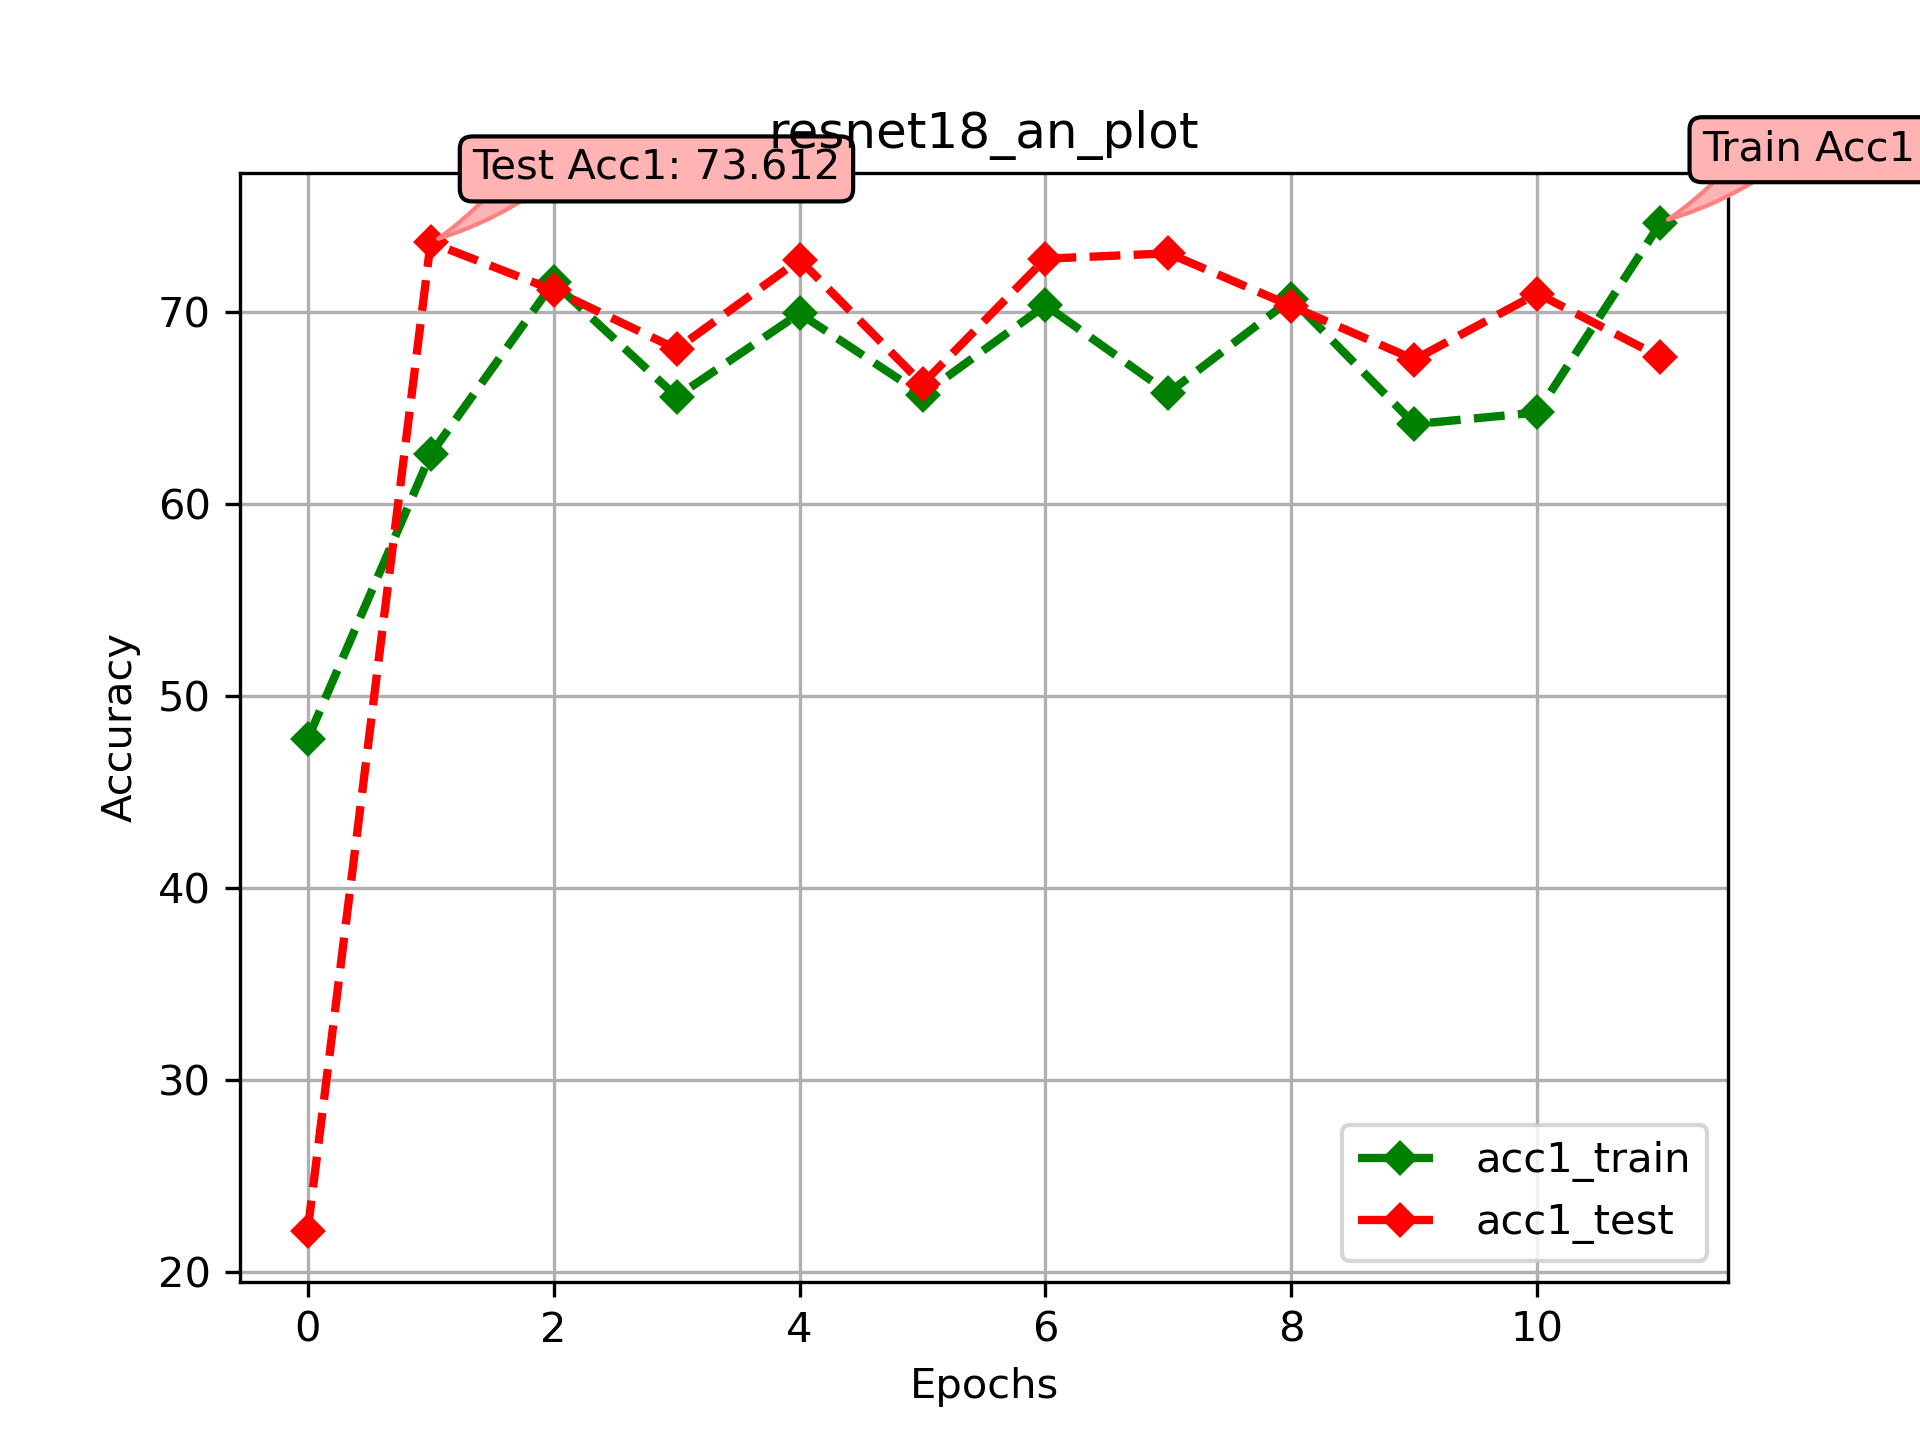
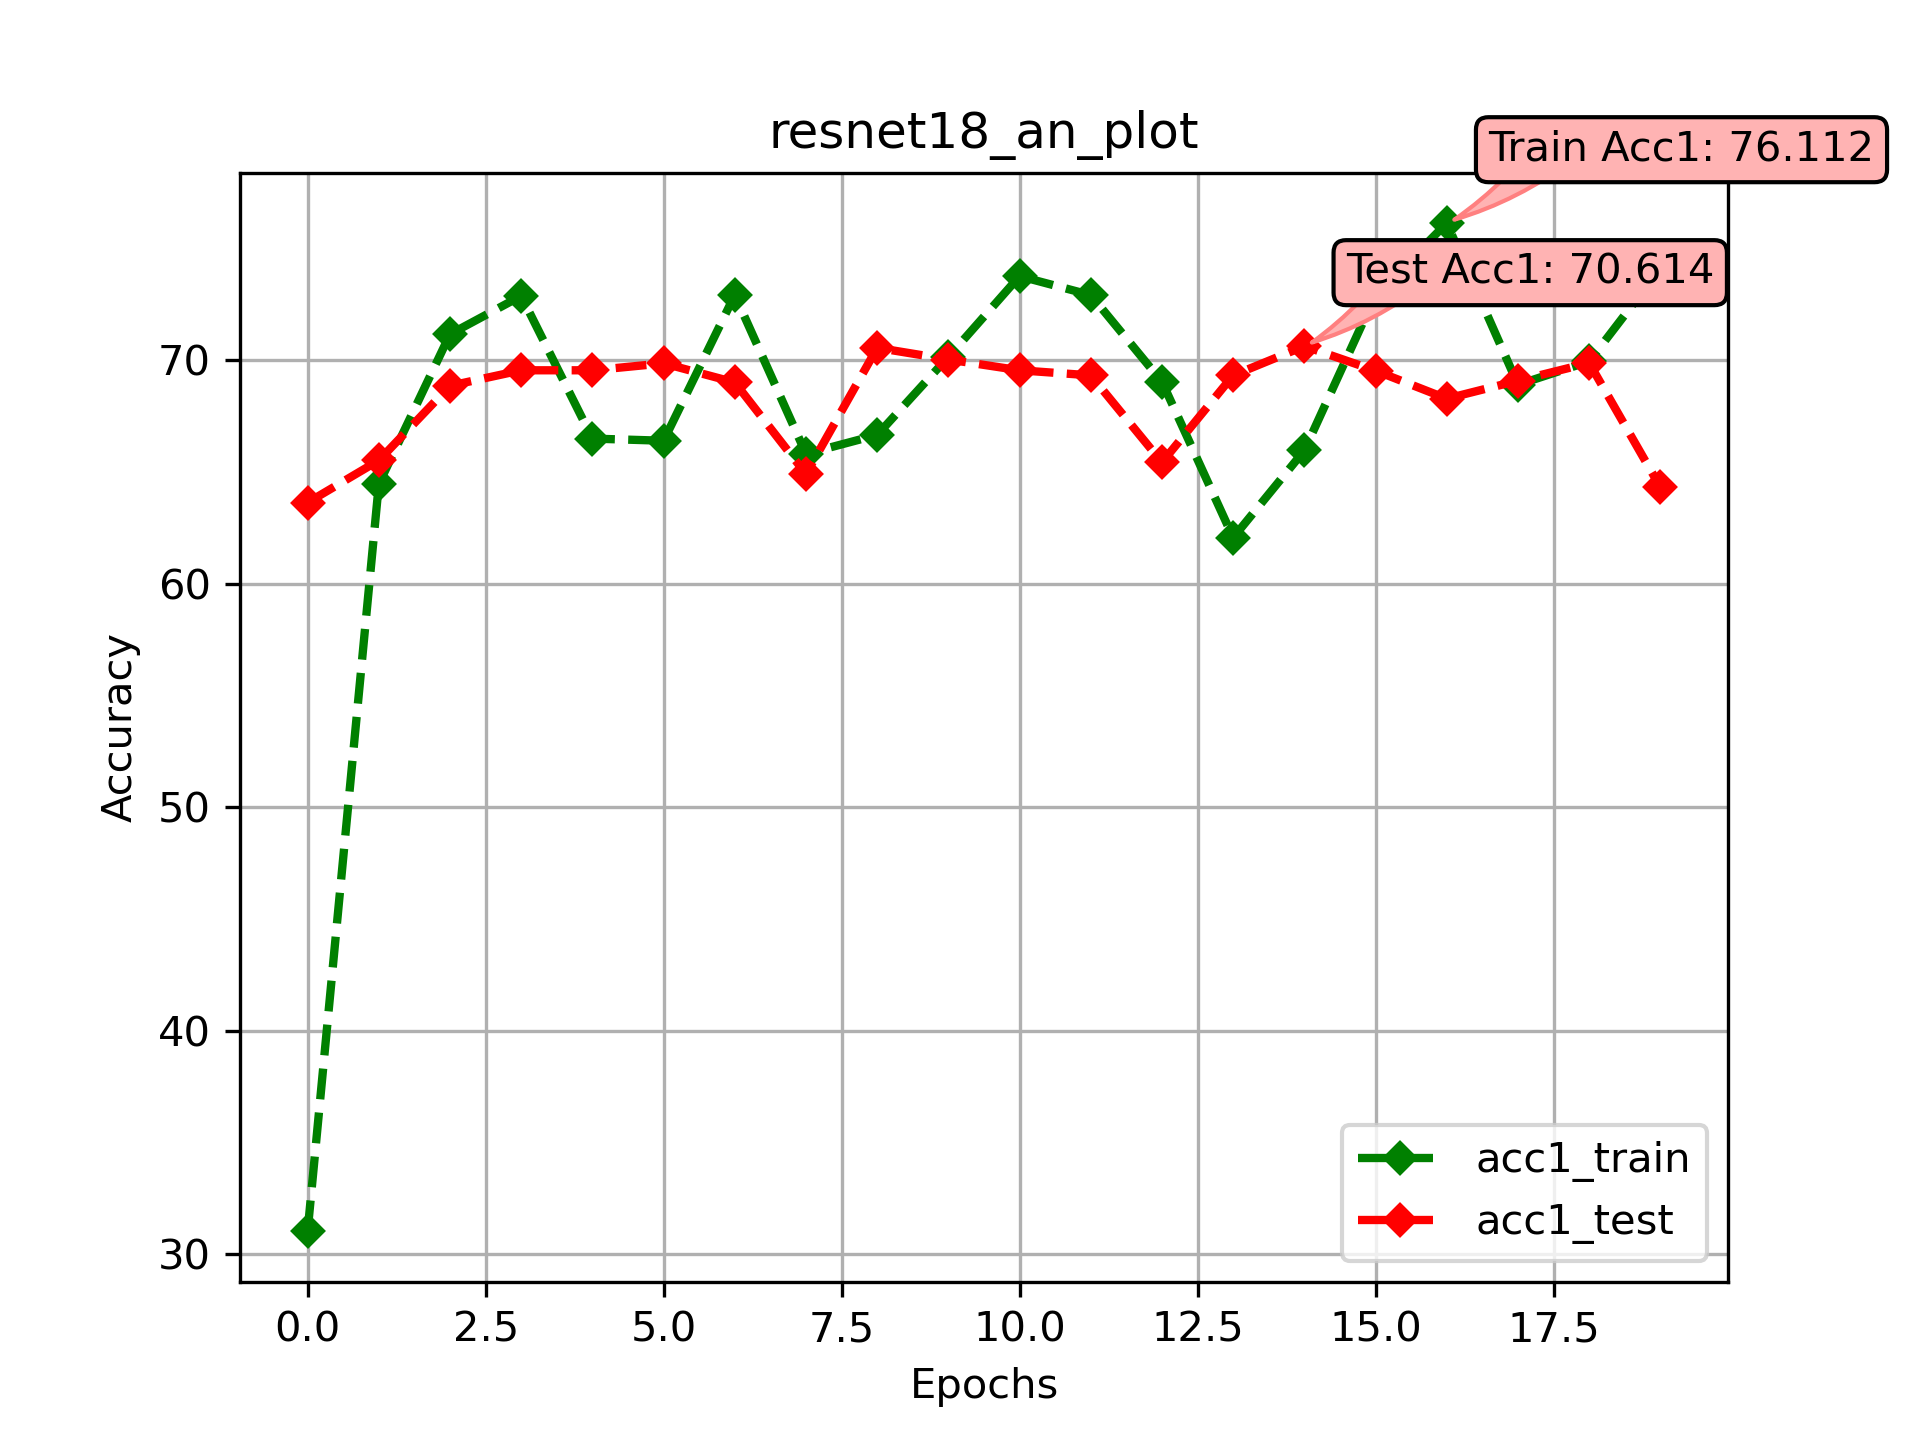
Recorrected Resnet18_an plot. Updated control flags and cleaned up code.

diff --git a/imc_main.py b/imc_main.py
@@ -39,35 +39,29 @@ random.seed(12)
 # =============================================================
 # SELECT: Model, Name, and test_only
 # =============================================================
-# model_name = "resnet18_an"
-# model_name = "m_resnet18"
-# model = resnet18(pretrained=False)
-# model_name = "resnet50_bn"
-model_name = "m_resnet50"
-model = resnet50(pretrained=False)
-# model_name = "vgg16_bn"
+model_name = "resnet18_an"
+model = resnet18(pretrained=False)
+# model_name = "resnet50_an"
+# model = resnet50(pretrained=False)
+# model_name = "vgg16_an"
 # model = vgg16(pretrained=False)
-# model_name = "nabernet_bn"
-# model_name = "nabernet_b2"
+# model_name = "nabernet_an"
 # model = NaberNet(0)
 
 # Whether the main should just run a test, or do a full fit.
-only_test = True
-# only_test = False
-# graph = True
-graph = False
-prune = True
-# prune = False
-quant = True
-# quant = False
+params = [True, True, False, False]         # Training
+# params = [False, True, False, False]        # Testing
+# params = [False, False, True, False]        # Pruning
+# params = [False, False, False, True]        # Quantizing
+# params = [False, False, True, True]         # Pruning & Quantizing
+training, graph, prune, quant = params[0], params[1], params[2], params[3]
 batchsize = 8       # Chosen for the GPU: RTX 2060
 
 # Loading a pretrained model
-model_loaded = only_test
-if model_loaded:
-    # model = torch.load(dir_models + model_name + ".pth")
-    model = torch.load(dir_models_old + model_name + ".tar")
-    model_name += '_bpq'
+if not training:
+    model = torch.load(dir_models + model_name + ".pth")
+    # model = torch.load(dir_models_old + model_name + ".tar")
+    # model_name += '_bpq'
 
 # =============================================================
 # SELECT: Dataset Name
@@ -79,14 +73,12 @@ elif '_b' in model_name:
 elif '_c' in model_name:
     SET_NAME = "COVIDx CT-1"            # Contains 115,837 images.    (Set C)
 
-if "naber" in model_name and not model_loaded and 'ucsd' not in SET_NAME.lower():
+if "naber" in model_name and training and 'ucsd' not in SET_NAME.lower():
     model = NaberNet(1 if 'sars' in SET_NAME.lower() else 2)
 # =============================================================
 # SELECT: Optimizer and learning rate.
 # =============================================================
-learning_rate = 0.0001
-# learning_rate = 0.005
-# optimizer = optim.SGD(model.parameters(), lr=learning_rate, momentum=0.9)
+learning_rate = 0.001
 optimizer = optim.Adam(model.parameters(), lr=learning_rate)
 
 # =============================================================
@@ -95,7 +87,7 @@ optimizer = optim.Adam(model.parameters(), lr=learning_rate)
 if "ucsd" in SET_NAME.lower():
     CLASSES = ['UCSD_NC', 'UCSD_CO']
     IMGSIZE = 256
-    EPOCHS = 10
+    EPOCHS = 20
     normalize = transforms.Normalize(mean=0.6292, std=0.3024)
 elif "sars" in SET_NAME.lower():
     CLASSES = ['SARSCT_NC', 'SARSCT_CO']
@@ -192,7 +184,7 @@ if __name__ == '__main__':
     print("MODEL:\t\t\t\t", model_name)
     print("DATASET:\t\t\t", SET_NAME)
     print("CLASSES:\t\t\t", CLASSES)
-    if not only_test:
+    if training:
         print("IMAGE BATCHES:\t\t", str(batchsize) + "x" + str(IMGSIZE) + "x" + str(IMGSIZE))
         valsize = 0
         if 'valset' in locals():
@@ -215,11 +207,11 @@ if __name__ == '__main__':
     tag = '_pruned'
     acc_original = 0.0
 
-    if only_test and prune and quant:
+    if not training and prune and quant:
         model_name += tag
         model = torch.load(dir_models_p + model_name + '.pth')    # Summons pruned model.
 
-    if not only_test:
+    if training:
         rem_old_file = False
         if os.path.exists(TRAIN_PATH):
             os.remove(TRAIN_PATH)
@@ -243,13 +235,13 @@ if __name__ == '__main__':
             sub_folder=dir_models.replace(cut_dir, ''))
         print("\n> All Epochs completed!")
     else:
-        acc_original = test(model=model, model_name=model_name, test_data_loader=test_loader, divider=divider, re_test=True)
+        acc_original = test(model=model, model_name=model_name, test_loader=test_loader, divider=divider, re_test=True)
         print(divider)
         print("\n> All Epochs completed!")
 
     if graph:
         print("\n> Generating Plots...")
-        Plot(model_name).plot(only_test=only_test)
+        Plot(model_name).plot(only_test=(not training))
         print("> Plot Closed.")
 
     if prune and not quant:
@@ -266,7 +258,7 @@ if __name__ == '__main__':
             sub_folder=dir_models_p.replace(cut_dir, ''))
 
         model_pruned = torch.load(dir_models_p + model_name + ".pth")
-        acc_pruned = test(model=model_pruned, model_name=model_name, test_data_loader=test_loader,
+        acc_pruned = test(model=model_pruned, model_name=model_name, test_loader=test_loader,
                           divider=divider, re_test=True)
 
         print(divider)
@@ -277,8 +269,8 @@ if __name__ == '__main__':
         result = (acc_pruned - acc_original) / acc_original
         diff = '{:.2f}%'.format(abs(result) * 100)
         state_str = 'dropped' if result < 0 else 'rose'
-        gap = '\t\t' if abs(result) * 100 < 10.0 else '\t'
-        print('Accuracy ' + state_str + ' by:' + gap, '{:>6}'.format(diff))
+        # gap = '\t\t' if abs(result) * 100 < 10.0 else '\t'
+        print('Accuracy ' + state_str + ' by:' + '\t', '{:>6}'.format(diff))
         print(divider)
 
     if quant:
@@ -292,11 +284,7 @@ if __name__ == '__main__':
 
         # EVAL Quantized Model
         # =============================================================
-        # fit(model=model_quantized, train_loader=train_loader, test_loader=test_loader, optimizer=optimizer,
-        #     epochs=epochs, model_name=model_name, divider=divider, print_freq=math.pow(10, digits),
-        #     sub_folder=dir_m.replace(cut_dir, ''), quant=quant)
-        # model_quantized = torch.load(dir_m + model_name + ".pth")
-        acc_quantized = test(model=model_quantized, model_name=model_name, test_data_loader=test_loader,
+        acc_quantized = test(model=model_quantized, model_name=model_name, test_loader=test_loader,
                              divider=divider, re_test=True, quant=quant)
 
         print(divider)
@@ -307,6 +295,6 @@ if __name__ == '__main__':
         result = (acc_quantized - acc_original) / acc_original
         diff = '{:.2f}%'.format(abs(result) * 100)
         state_str = 'dropped' if result < 0 else 'rose'
-        gap = '\t\t' if abs(result) * 100 < 10.0 else '\t'
-        print('Accuracy ' + state_str + ' by:' + gap, '{:>6}'.format(diff))
+        # gap = '\t\t' if abs(result) * 100 < 10.0 else '\t'
+        print('Accuracy ' + state_str + ' by:' + '\t', '{:>6}'.format(diff))
         print(divider)

diff --git a/imc_fit.py b/imc_fit.py
@@ -21,7 +21,7 @@ def fit(model, train_loader, test_loader, optimizer, epochs=10, criterion=torch.
         adjust_learning_rate(optimizer, epochs)
         acc_train = train(model=model, model_name=model_name, train_loader=train_loader, optimizer=optimizer,
                           epochs=epoch, criterion=criterion, print_freq=print_freq, quant=quant, divider=divider)
-        acc_test = test(model=model, model_name=model_name, test_data_loader=test_loader,
+        acc_test = test(model=model, model_name=model_name, test_loader=test_loader,
                         epoch=epoch, print_freq=print_freq, divider=divider, re_test=False, quant=quant)
 
         if acc_test > best_acc:
@@ -119,7 +119,7 @@ def train(model=None, train_loader=None, optimizer=None, epochs=1, model_name=''
     return top1.avg
 
 
-def test(model=None, test_data_loader=None, model_name='', epoch=0, criterion=torch.nn.CrossEntropyLoss(),
+def test(model=None, test_loader=None, model_name='', epoch=0, criterion=torch.nn.CrossEntropyLoss(),
          print_freq=10, divider='', re_test=False, quant=False):
 
     path = pathlib.Path('logs/test_logger/')
@@ -150,14 +150,14 @@ def test(model=None, test_data_loader=None, model_name='', epoch=0, criterion=to
     batch_time = AverageMeter('Time', ':6.3f')
     losses = AverageMeter('Loss', ':.4e')
     top1 = AverageMeter('Acc@1', ':6.2f')
-    progress = ProgressMeter(len(test_data_loader), batch_time, losses, top1, prefix='Test: ')
+    progress = ProgressMeter(len(test_loader), batch_time, losses, top1, prefix='Test: ')
 
     model.to(device)
     model.eval()
     with torch.no_grad():
         end = time.time()
 
-    for i, x in enumerate(test_data_loader):
+    for i, x in enumerate(test_loader):
 
         batch, label = x['img'], x['label']
         batch = batch.to(device)
@@ -183,7 +183,7 @@ def test(model=None, test_data_loader=None, model_name='', epoch=0, criterion=to
             'Loss {loss.val:.4f} ({loss.avg:.4f})\t'
             'Prec@1 {top1.val:.3f} ({top1.avg:.3f})\t'
         )
-        logger.info(msg.format(epoch, i, len(test_data_loader), loss=losses, batch_time=batch_time, top1=top1))
+        logger.info(msg.format(epoch, i, len(test_loader), loss=losses, batch_time=batch_time, top1=top1))
 
     return top1.avg
 
